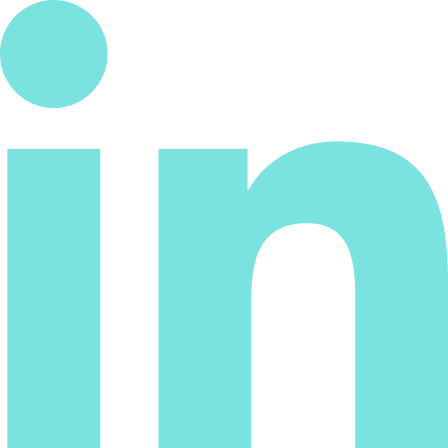
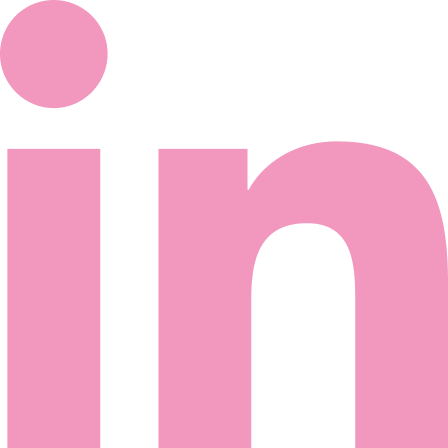
second version of my landing

diff --git a/style.css b/style.css
@@ -39,17 +39,18 @@ img {
 
 :root {
   --blanco: white;
+  --negro: #000;
   --gris-medio: #333333;
   --gris-oscuro: #2c2c2c;
-  --main-font: "Oswald", sans-serif;
-  --secondary-font: "Open Sans", sans-serif;
+  --main-font: "Comfortaa", cursive;
+  --secondary-font: "Roboto", sans-serif;
   --shadow: rgba(0, 0, 0, 0.75);
-  --celeste: #7ae2df;
+  --rosado: #f297bd;
 }
 
 body, header, section {
   align-items: center;
-  background-color: var(--gris-medio);
+  background-color: var(--blanco);
   display: flex;
   flex-direction: column;
   width: 100%;
@@ -65,7 +66,7 @@ section {
 
 .skip-link:focus,
 .skip-link:active {
-  background: var(--celeste);
+  background: var(--rosado);
   border-radius: 5px;
   color: var(--gris-oscuro);
   font-family: var(--secondary-font);
@@ -74,26 +75,41 @@ section {
   padding: 8px;
   text-decoration: none;
   border: 5px solid var(--gris-oscuro);
-  outline: 3px solid var(--celeste);
+  outline: 3px solid var(--rosado);
+  position: absolute;
 }
 
 .header {
-  color: var(--blanco);
+  color: var(--negro);
   font-family: var(--main-font);
-  font-size: 55px;
+  font-size: 2.8rem;
+  line-height: 1.5;
   margin-top: 16px;
 }
 
+header {
+  background-image: url(./images/main-background.png);
+  background-repeat: no-repeat;
+  background-size: contain;
+}
+
+.presentation-container {
+  display: flex;
+  align-items: center;
+  justify-content: space-between;
+  width: 46%;
+  margin-bottom: 60px;
+}
+
 .subtitle {
-  color: var(--celeste);
+  color: var(--negro);
   font-family: var(--secondary-font);
   font-size: 24px;
 }
 
 .header-img {
   border-radius: 50%;
-  border: 1px solid var(--gris-oscuro);
-  box-shadow: 8px 16px 32px 0px var(--shadow);
+  box-shadow: 0px 8px 6px 0px rgb(108 108 108 / 75%);
   height: 360px;
   margin-top: 80px;
   width: 360px;
@@ -114,14 +130,14 @@ nav {
 
 .nav-item a {
   text-decoration: none;
-  color: var(--blanco);
+  color: var(--negro);
 }
 
 .nav-item {
   align-items: center;
   border-radius: 5px;
   display: flex;
-  font-family: var(--secondary-font);
+  font-family: var(--main-font);
   height: 38px;
   justify-content: center;
   width: 33%;
@@ -129,13 +145,13 @@ nav {
 
 .nav-item:hover,
 .nav-item:hover a {
-  background-color: var(--celeste);
+  background-color: var(--rosado);
   color: var(--gris-oscuro);
   cursor: pointer;
 }
 
 .nav-item:focus-within {
-  background-color: var(--celeste); 
+  background-color: var(--rosado); 
 }
 
 .nav-item a:focus {
@@ -146,7 +162,7 @@ nav {
 .intro {
   margin: 10px 0 auto;
   font-family: var(--secondary-font);
-  color: var(--blanco);
+  color: var(--negro);
   width: 46%;
   text-align: center;
 }
@@ -161,7 +177,7 @@ nav {
 .social-media li a {
   align-items: center;
   display: flex;
-  color: var(--blanco);
+  color: var(--negro);
   font-family: var(--secondary-font);
   text-decoration: none;
 }
@@ -171,7 +187,7 @@ nav {
 }
 
 .social-media li:focus-within {
-  outline: 3px solid var(--celeste);
+  outline: 3px solid var(--rosado);
   padding: 8px;
 }
 
@@ -214,12 +230,12 @@ nav {
 }
 
 .project-container button:focus-within {
-  outline: 3px solid var(--celeste);
+  outline: 3px solid var(--rosado);
 }
 
 .project-img {
   border-radius: 5px;
-  border: 2px solid #000;
+  box-shadow: 0px 4px 8px 2px rgb(108 108 108 / 75%);
   display: inline-block;
   height: 400px;
   margin: 0 8px;
@@ -237,6 +253,7 @@ nav {
   height: 75px;
   transition: all 0.2s ease-in-out;
   width: 75px;
+  border: none;
 }
 
 .arrow:hover {
@@ -245,26 +262,14 @@ nav {
 
 .arrow-left {
   background: center / contain no-repeat url(./images/play-button-left.png);
-  background-color: var(--celeste);
-  border-radius: 50%;
 }
 
 .arrow-right {
   background: center / contain no-repeat url(./images/play-button-right.png);
-  background-color: var(--celeste);
-  border-radius: 50%;
 }
 
 .arrow:focus {
-  outline: 3px solid var(--celeste);
-}
-
-.contact-section {
-  align-items: center;
-  background-color: var(--gris-oscuro);
-  display: flex;
-  flex-direction: column;
-  width: 100%;
+  outline: 3px solid var(--rosado);
 }
 
 .form-container {
@@ -275,7 +280,7 @@ nav {
 
 .form-label,
 .message-input {
-  color: var(--celeste);
+  color: var(--rosado);
   font-family: var(--secondary-font);
 }
 
@@ -289,14 +294,14 @@ input {
 }
 
 input:focus {
-  outline: 3px solid var(--celeste);
+  outline: 3px solid var(--rosado);
   padding: 8px;
 }
 
 .send-button,
 .modal-button {
   align-items: center;
-  background-color: var(--celeste);
+  background-color: var(--rosado);
   border-radius: 5px;
   color: var(--gris-oscuro);
   font-family: var(--secondary-font);
@@ -313,7 +318,7 @@ input:focus {
 .send-button:focus,
 .modal-button:focus {
   border: 5px solid var(--gris-oscuro);
-  outline: 3px solid var(--celeste);
+  outline: 3px solid var(--rosado);
 }
 
 #name-error {
@@ -323,7 +328,7 @@ input:focus {
 
 .notification {
   align-items: center;
-  background-color: var(--celeste);
+  background-color: var(--rosado);
   border-radius: 5px;
   box-shadow: 8px 16px 32px 0px var(--shadow);
   color: var(--gris-oscuro);
@@ -348,7 +353,7 @@ input:focus {
 }
 
 #modal-header {
-  outline: 3px solid var(--celeste);
+  outline: 3px solid var(--rosado);
 }
 
 .modal {
@@ -375,7 +380,8 @@ input:focus {
   width: 550px;
 }
 
-/* Por ahora ocultare el form */
 footer {
-  display: none !important;
+  text-align: center;
+  font-family: var(--main-font);
+  margin-bottom: 20px;
 }

diff --git a/index.html b/index.html
@@ -5,18 +5,21 @@
     <meta content="width=device-width, initial-scale=1" name="viewport" />
     <title>t-girl</title>
     <link href="style.css" rel="stylesheet" />
-    <link
-      href="https://fonts.googleapis.com/css?family=Open+Sans|Oswald&display=swap"
-      rel="stylesheet"
-    />
+    <link rel="preconnect" href="https://fonts.googleapis.com">
+    <link rel="preconnect" href="https://fonts.gstatic.com" crossorigin>
+    <link href="https://fonts.googleapis.com/css2?family=Comfortaa:wght@600&family=Roboto:wght@300&display=swap" rel="stylesheet">
   </head>
 
   <body>
     <a href="#main" class="skip-link">Saltar al contenido</a>
     <header>
-      <img src="images/t-girl.png" alt="Verónica Barrientos" class="header-img" />
-      <h1 class="header">Verónica Barrientos</h1>
-      <h2 class="subtitle">Front-end Developer</h2>
+      <div class="presentation-container">
+        <img src="images/t-girl.png" alt="Verónica Barrientos" class="header-img" />
+        <div>
+          <h1 class="header">Verónica Barrientos</h1>
+          <h2 class="subtitle">Front-end Developer</h2>
+        </div>
+      </div>
       <nav>
         <ul class="navigation">
           <li class="nav-item"><a href="#main">Acerca de</a></li>
@@ -30,11 +33,10 @@
       <section>
         <h2 class="header">Acerca de</h2>
         <p class="intro">
-        Hola! Soy Verónica 👋 Soy costarricense, amo ver series y tambien crear
-        cosas lindas para la web 😍 estudio Ingeniería en Software. Tengo experiencia previa en el desarrollo de proyectos centrados en el diseño y 
-        desarrollo web. También participo en redes de liderazgo que ayudan a fortalecer mis habilidades blandas. Aquí puedes encontrar algunos de mis proyectos en GitHub,
-        seguirme en mis redes sociales, y también puedes contactarme por si
-        quieres hablar de tecnología, accesibilidad o series!</p>
+          Hola! Soy Vero, y amo crear cosas lindas para la web, estudio Ingeniería del Software. 
+          Tengo experiencia en el desarrollo de proyectos centrados en el diseño, 
+          desarrollo web, y desarrollo front-end. 
+          También participo en redes de liderazgo que ayudan a fortalecer mis habilidades blandas. </p>
       </section>
 
       <section id="contact">
@@ -48,7 +50,7 @@
           </a>
           </li>
           <li>
-            <a href="https://github.com/VBarrientosa" target="_blank"
+            <a href="https://github.com/vbarrientos97" target="_blank"
               ><img src="images/github.png" alt="GitHub"
             />
             <p class="social-link-text">GitHub</p></a>
@@ -86,27 +88,9 @@
     </section>
     </main>
 
-    <footer class="contact-section">
-      <h2 class="header">Contacto</h2>
-      <p class="intro">Para manderme un mensaje puedes usar el formulario que sigue</p>
-      <form class="form-container">
-        <label class="form-label">Nombre</label><input type="text" aria-label="nombre" id="name"/> 
-        <span id="name-error" aria-live="assertive"></span>
-        <br />
-        <label class="form-label">Correo</label><input type="text" aria-label="correo"/> <br />
-        <label class="message-input">Mensaje<input type="text" /> <br /></label>
-        <button class="send-button">Enviar</button>
-      </form>
+    <footer>
+      <small>Made with love and coffe</small>
     </footer>
-
-    <!-- <div class="notification" aria-live="assertive"></div>
-    <div class="modal-container">
-      <div class="modal">
-        <h2 class="header" id="modal-header" tabindex="0">Grace Hopper Celebration</h2>
-        <img src="images/ghc-in.jpg" class="modal-project-image" alt="un pantallazo de mi project"/>
-        <button class="modal-button">Cerrar</button>
-      </div>
-    </div> -->
 
     <script src="index.js" type="text/javascript"></script>
   </body>
